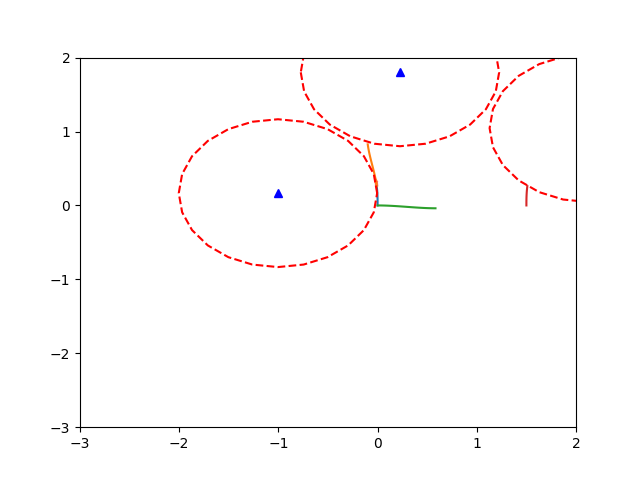
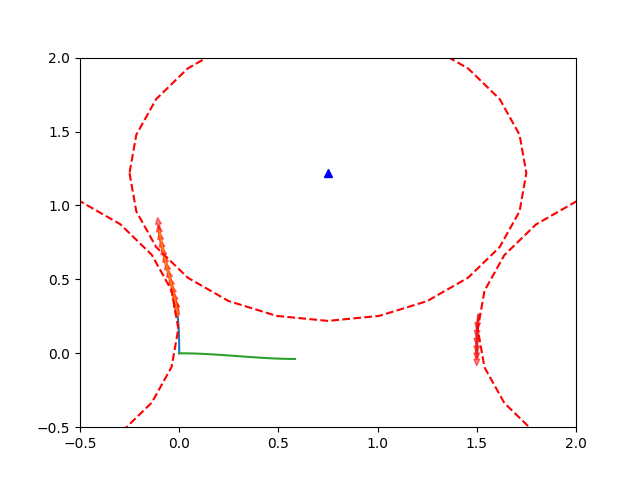
fixed placePoint function

diff --git a/BackmanAlgorithm/SpiralSegment.py b/BackmanAlgorithm/SpiralSegment.py
@@ -41,7 +41,31 @@ class SpiralSegment:
         TxH = np.matmul(T,H)
 
         rotAndTranslatedPoints = np.matmul(TxH,homogenousCoords)
-        finalPath = rotAndTranslatedPoints + (self.poses.T * np.array([[0], [0], [1]])) + np.array([[0], [0], [thetaRotate]])
+
+        #next line does a bunch of broadcasting to strip the ones from homogenous coords and add back the orientation data
+        finalPath = rotAndTranslatedPoints * np.array([[1], [1], [0]]) + (self.poses.T * np.array([[0], [0], [1]])) + np.array([[0], [0], [thetaRotate]])
+
+        self.poses = finalPath.T
+    
+    def rotateAboutPoint(self, a, b, theta):
+        """ 
+        Rotates the path about a point [a,b] by theta rad.
+
+        Input: 
+            
+            a: x position of center of rotation (m)
+            b: y position of center of rotation (m)
+            theta: orientation of start or end pose (rad)
+         """
+
+        homogenousCoords = self.poses.T * np.array([[1], [1], [0]]) + np.array([[0], [0], [1]])
+
+        H = np.array([[cos(theta), -1*sin(theta), -1*a*cos(theta) + b*sin(theta) + a],
+                      [sin(theta), cos(theta), -1*a*sin(theta) - b*cos(theta) + b], 
+                      [0, 0, 1]])
+
+        rotatedPoints = np.matmul(H,homogenousCoords)
+        finalPath = rotatedPoints + (self.poses.T * np.array([[0], [0], [1]])) + np.array([[0], [0], [theta]])
 
         self.poses = finalPath.T
 
@@ -94,31 +118,3 @@ class SpiralSegment:
         theta = x[2]
 
         return [v*cos(theta), v*sin(theta), k]
-
-    def relocatePath(self, path, point, relocateStartPoint=True):
-        """Use Homogenous Transform to relocate a path to a point
-            TODO: optimize function and use Homogenous TF efficiently
-            TODO: get orienttion values
-        """
-
-        if not (len(path[1]) == len(point)):
-            raise ValueError("Path and Point are not of suitable dimension")
-
-        index = 0 if relocateStartPoint else -1
-
-        pathPoint = path[index]
-
-        tf = point - pathPoint
-        
-        H = np.array([[cos(tf[2]), -sin(tf[2]), 0],
-                      [sin(tf[2]), cos(tf[2]), 0], [0, 0, 1]])
-
-        pathHomogenous = np.array(
-            [[i[0]-pathPoint[0], i[1]-pathPoint[1], 1] for i in path]).T
-        
-        pathTF = np.matmul(H, pathHomogenous).T * [1, 1, 0] + np.array([[0, 0, i[2]] for i in path])
-
-        pathTF = (pathTF) + [point[0] - pathTF[-1]
-                             [0], point[1] - pathTF[-1][1],  tf[2]]
-
-        return pathTF

diff --git a/BackmanAlgorithm/SmoothPlanner.py b/BackmanAlgorithm/SmoothPlanner.py
@@ -349,9 +349,15 @@ class SmoothPathPlanner:
         plt.plot([(self.k_C3**-1)*cos(theta) + self.omega_kplus2[0] for theta in np.linspace(0, 2*np.pi, 25)],
                  [(self.k_C3**-1)*sin(theta) + self.omega_kplus2[1] for theta in np.linspace(0, 2*np.pi, 25)], 'r--')
         plt.arrow(self.S1.poses[-1][0], self.S1.poses[-1][1], 0.1*cos(self.S1.poses[-1][2]), 0.1*sin(self.S1.poses[-1][2]), length_includes_head = True, width = 0.02, head_width = 0.03, color = 'r', alpha = 0.5)
+        
+        for i in range(0, len(self.S2.poses), int(len(self.S2.poses)/10)):
+            plt.arrow(self.S2.poses[i][0], self.S2.poses[i][1], 0.1*cos(self.S2.poses[i][2]), 0.1*sin(self.S2.poses[i][2]), length_includes_head = True, width = 0.01, head_width = 0.03, color = 'r', alpha = 0.5)
+        
+        for i in range(0, len(self.S4.poses), int(len(self.S2.poses)/10)):
+            plt.arrow(self.S4.poses[i][0], self.S4.poses[i][1], 0.1*cos(self.S4.poses[i][2]), 0.1*sin(self.S4.poses[i][2]), length_includes_head = True, width = 0.01, head_width = 0.03, color = 'r', alpha = 0.5)
 
-        plt.xlim([-3, 2])
-        plt.ylim([-3, 2])
+        plt.xlim([-0.5, 2])
+        plt.ylim([-0.5, 2])
         plt.savefig("trajectory.png")
 
         return self.path
